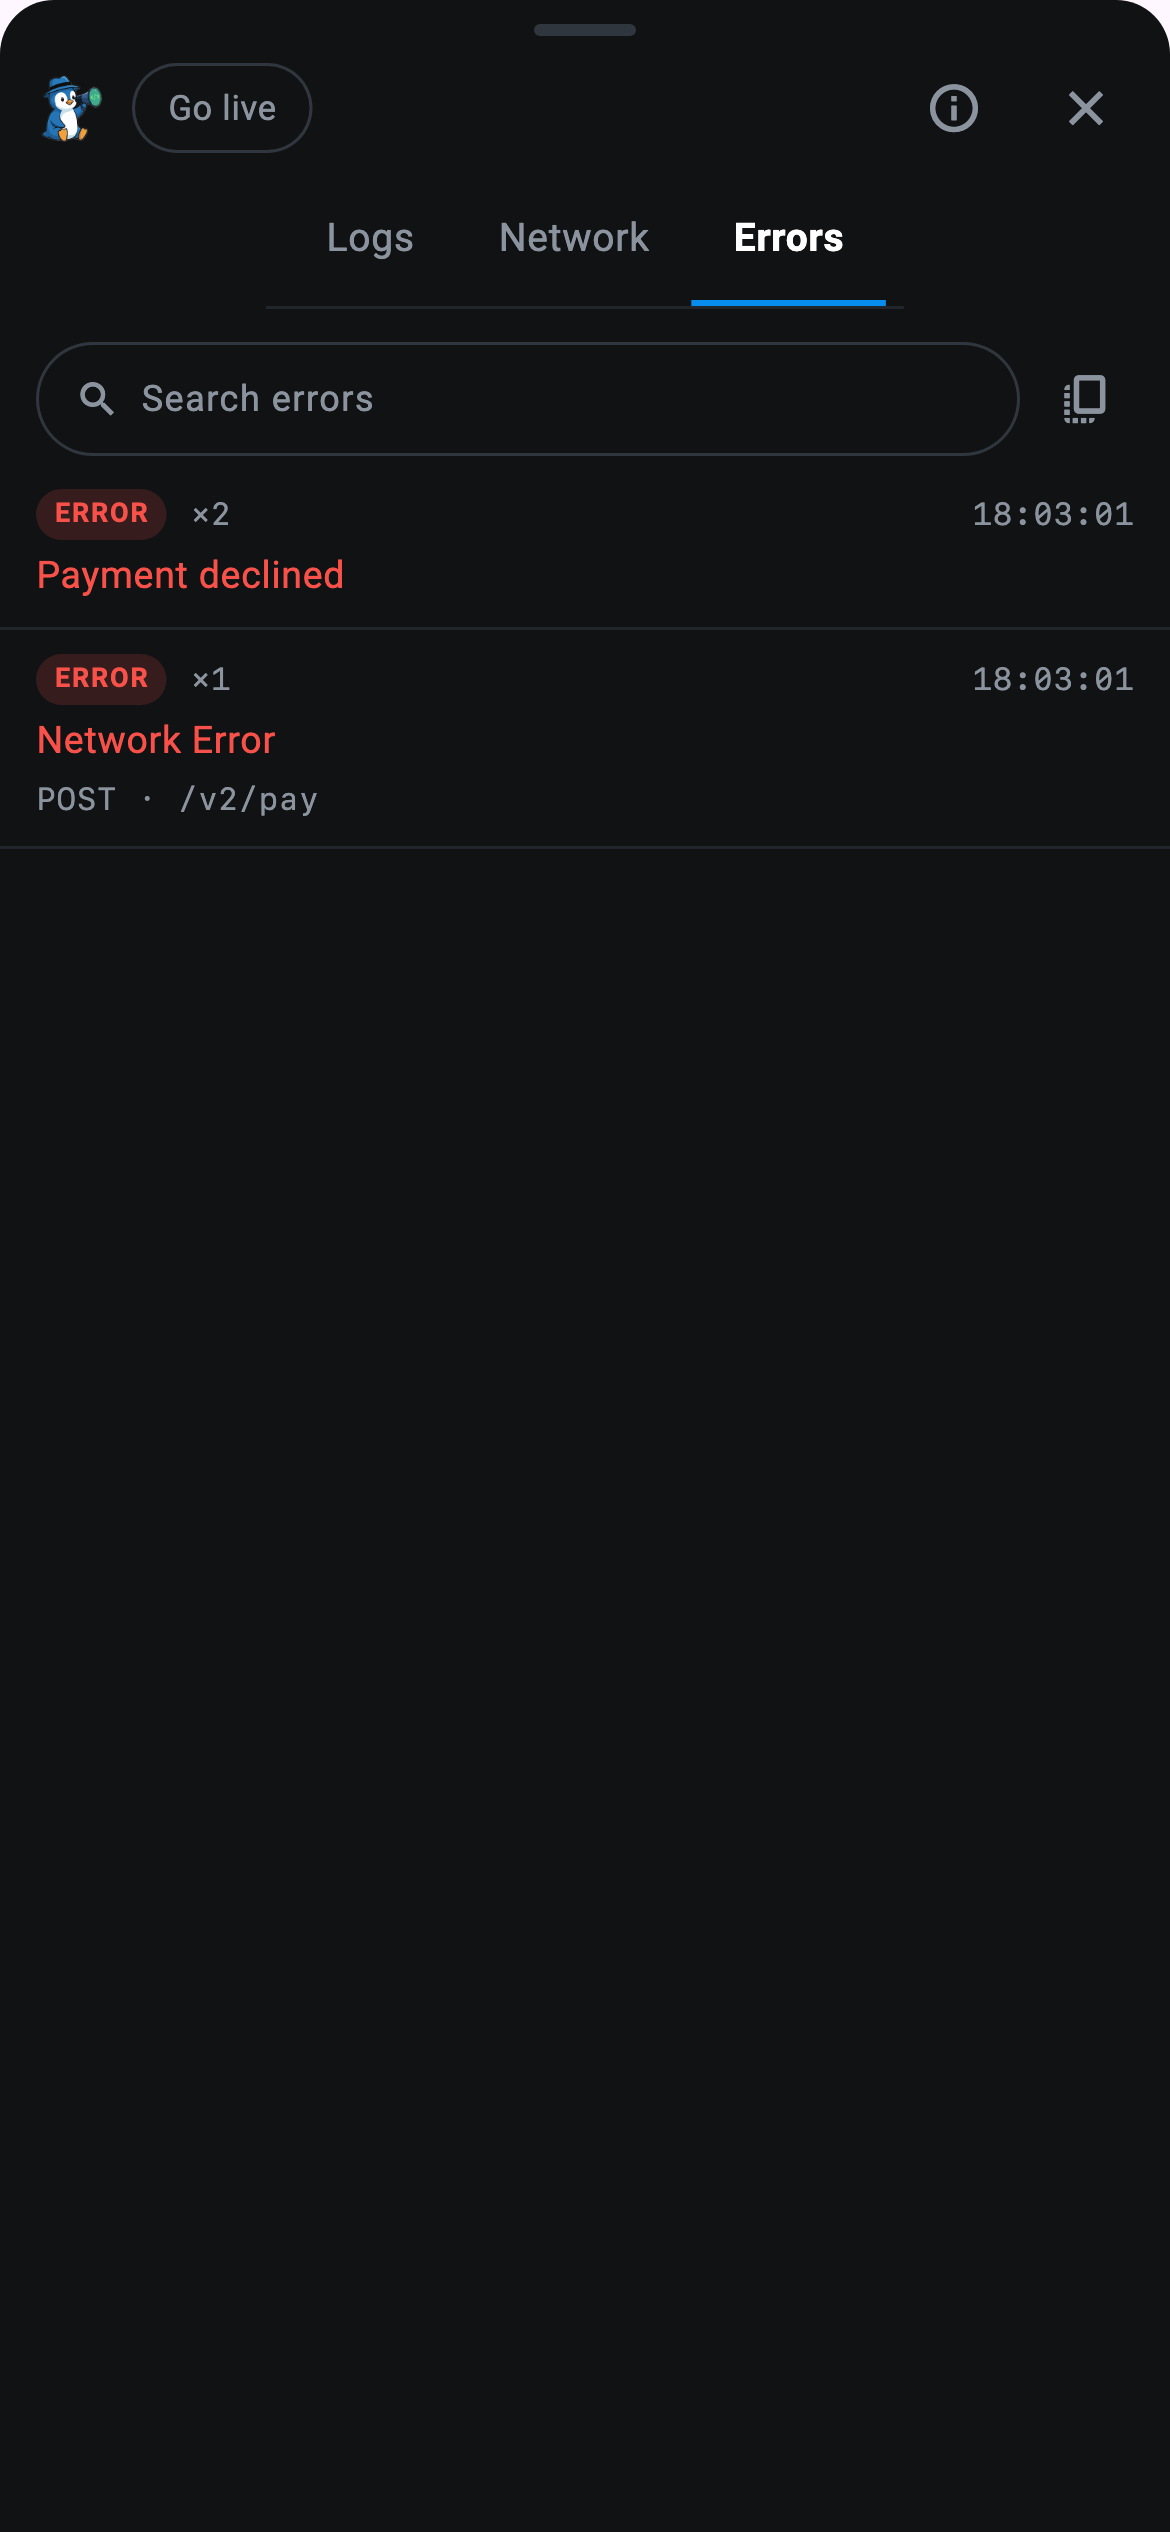
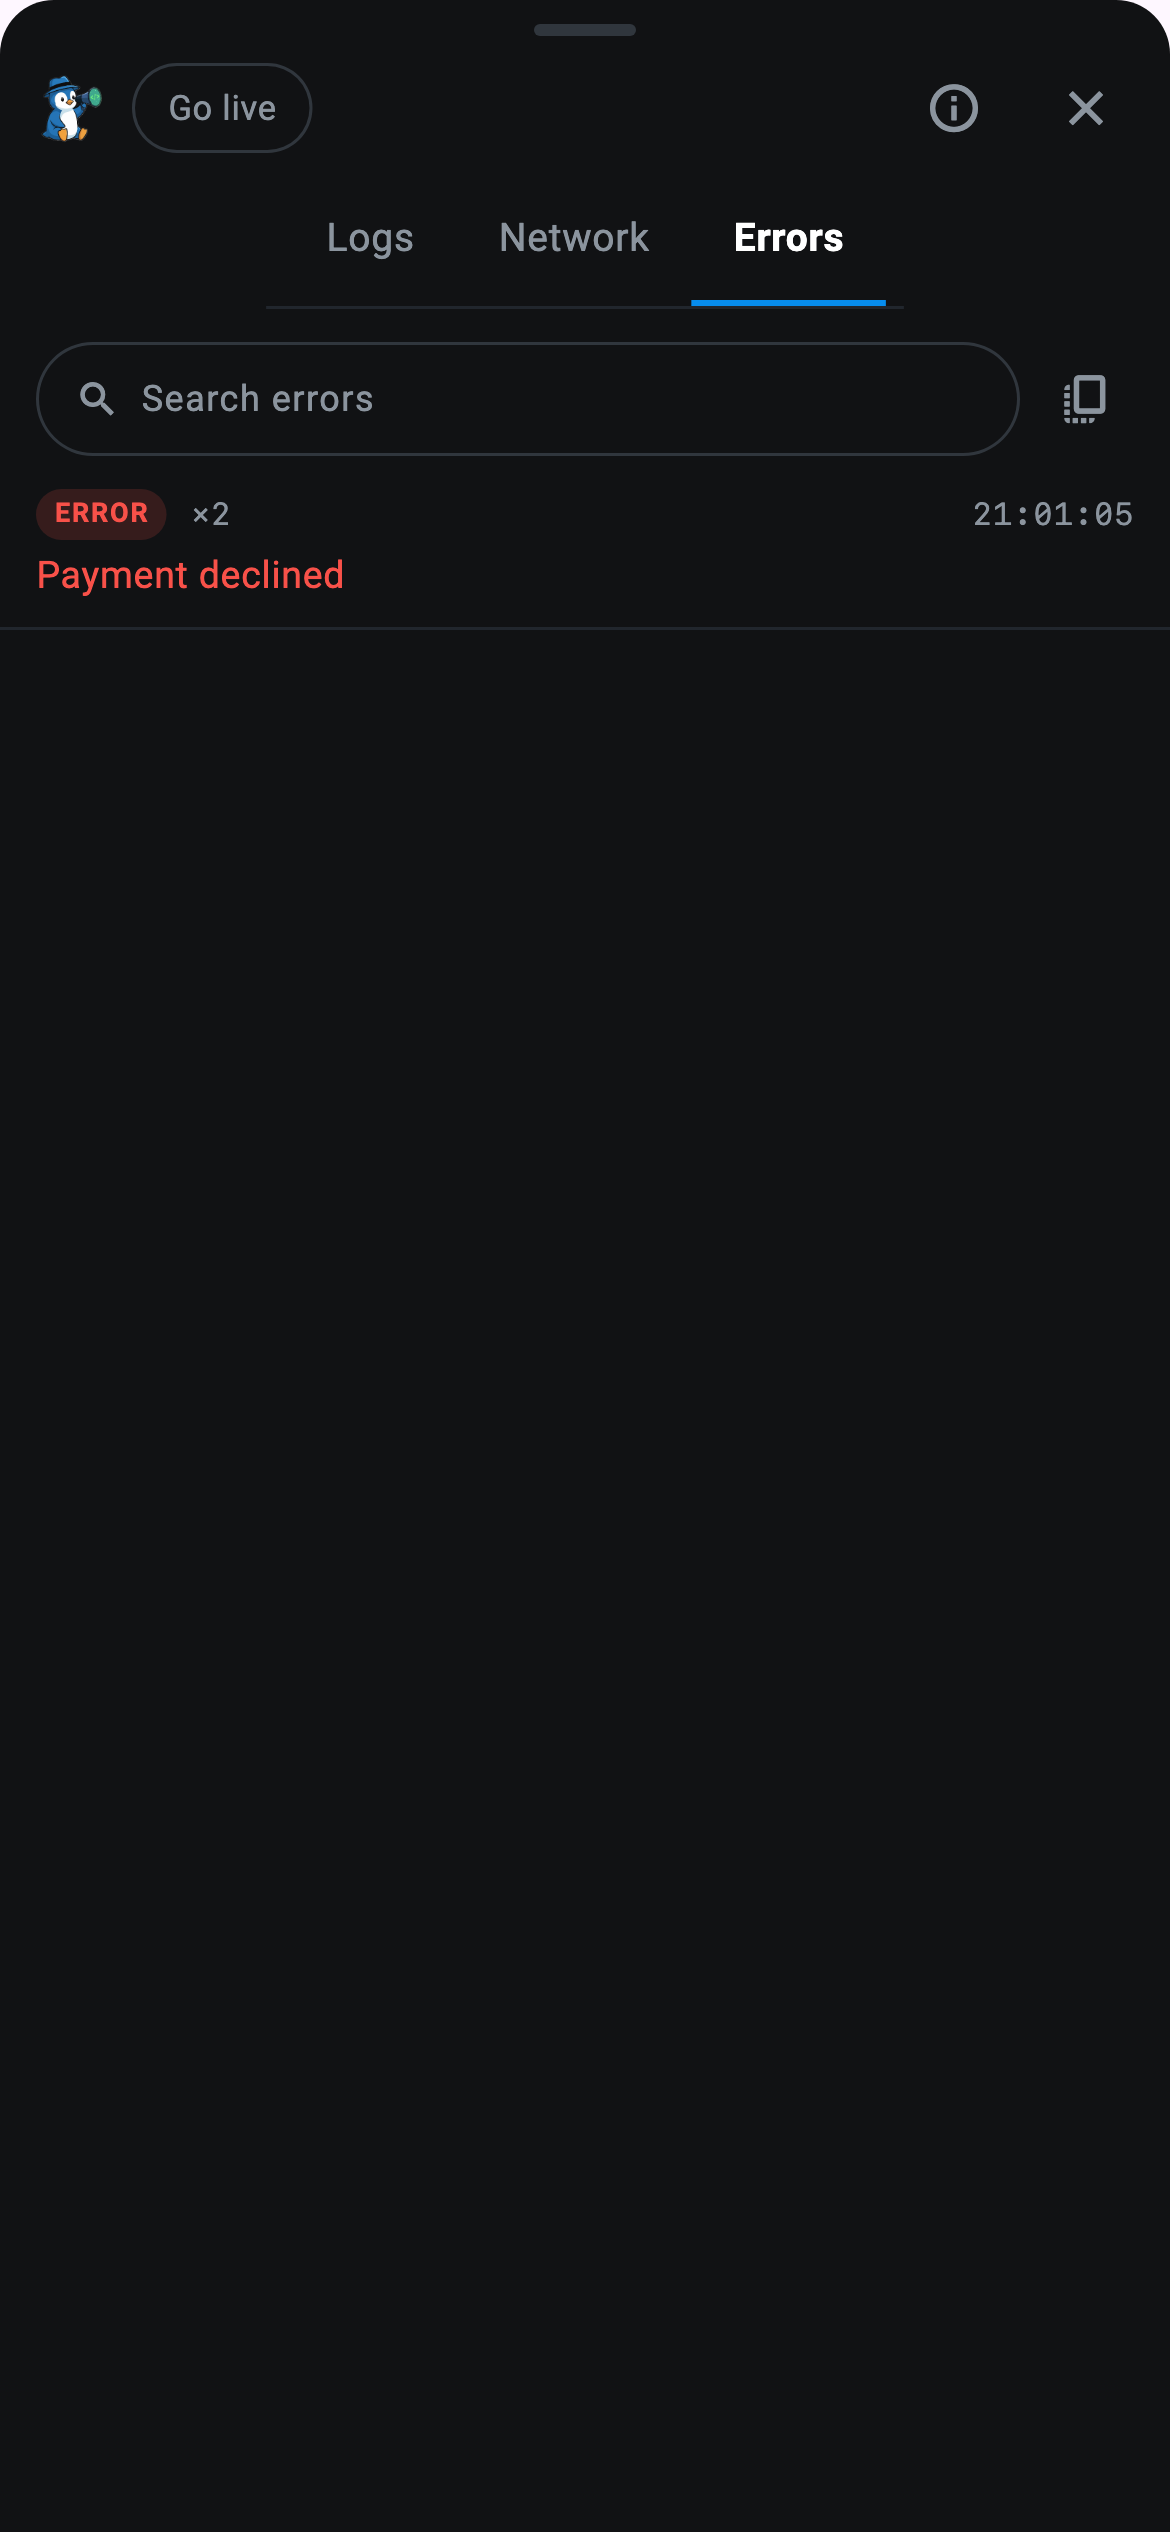
the pay call answers 401 in the overlay seed too

diff --git a/test/overlay_shots_test.dart b/test/overlay_shots_test.dart
@@ -257,8 +257,10 @@ Future<void> _seedStory(WidgetTester tester) async {
   await log(LogLevel.info, 'Checkout started', tags: {'checkout'});
   await log(LogLevel.warning, 'Token expired, refreshing', tags: {'auth'});
   await call('r2', 'POST', 'https://api.shop.dev/v2/auth/refresh', status: 401, took: 210);
-  await call('r3', 'POST', 'https://api.shop.dev/v2/pay',
-      failure: 'Receive timeout', took: 380);
+  // 401 rather than a timeout: the retry reused the token the refresh had just
+  // failed to replace. The dashboard's seed tells the same story, and a film
+  // that says 401 beside a screenshot saying "error" is worse than no film.
+  await call('r3', 'POST', 'https://api.shop.dev/v2/pay', status: 401, took: 380);
   await log(
     LogLevel.error,
     'Payment declined',
